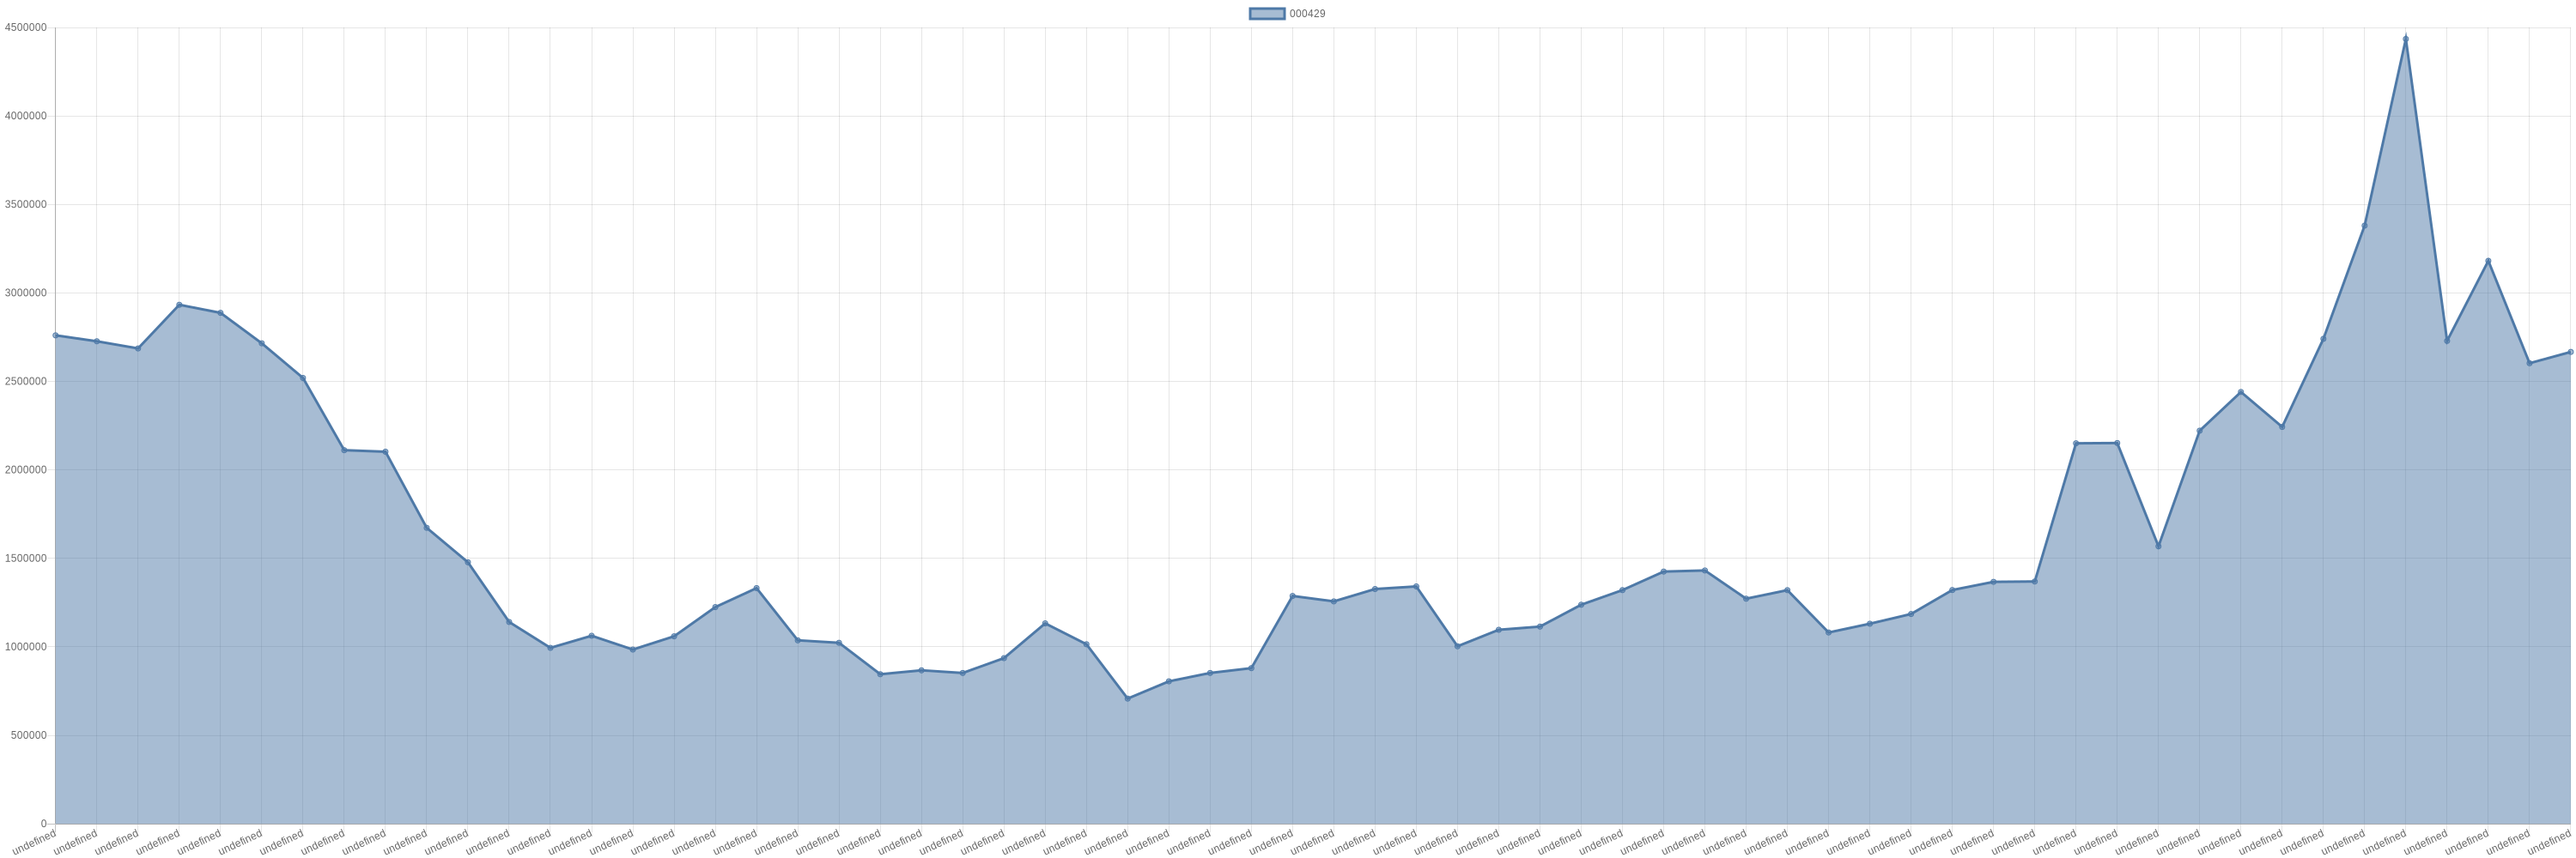
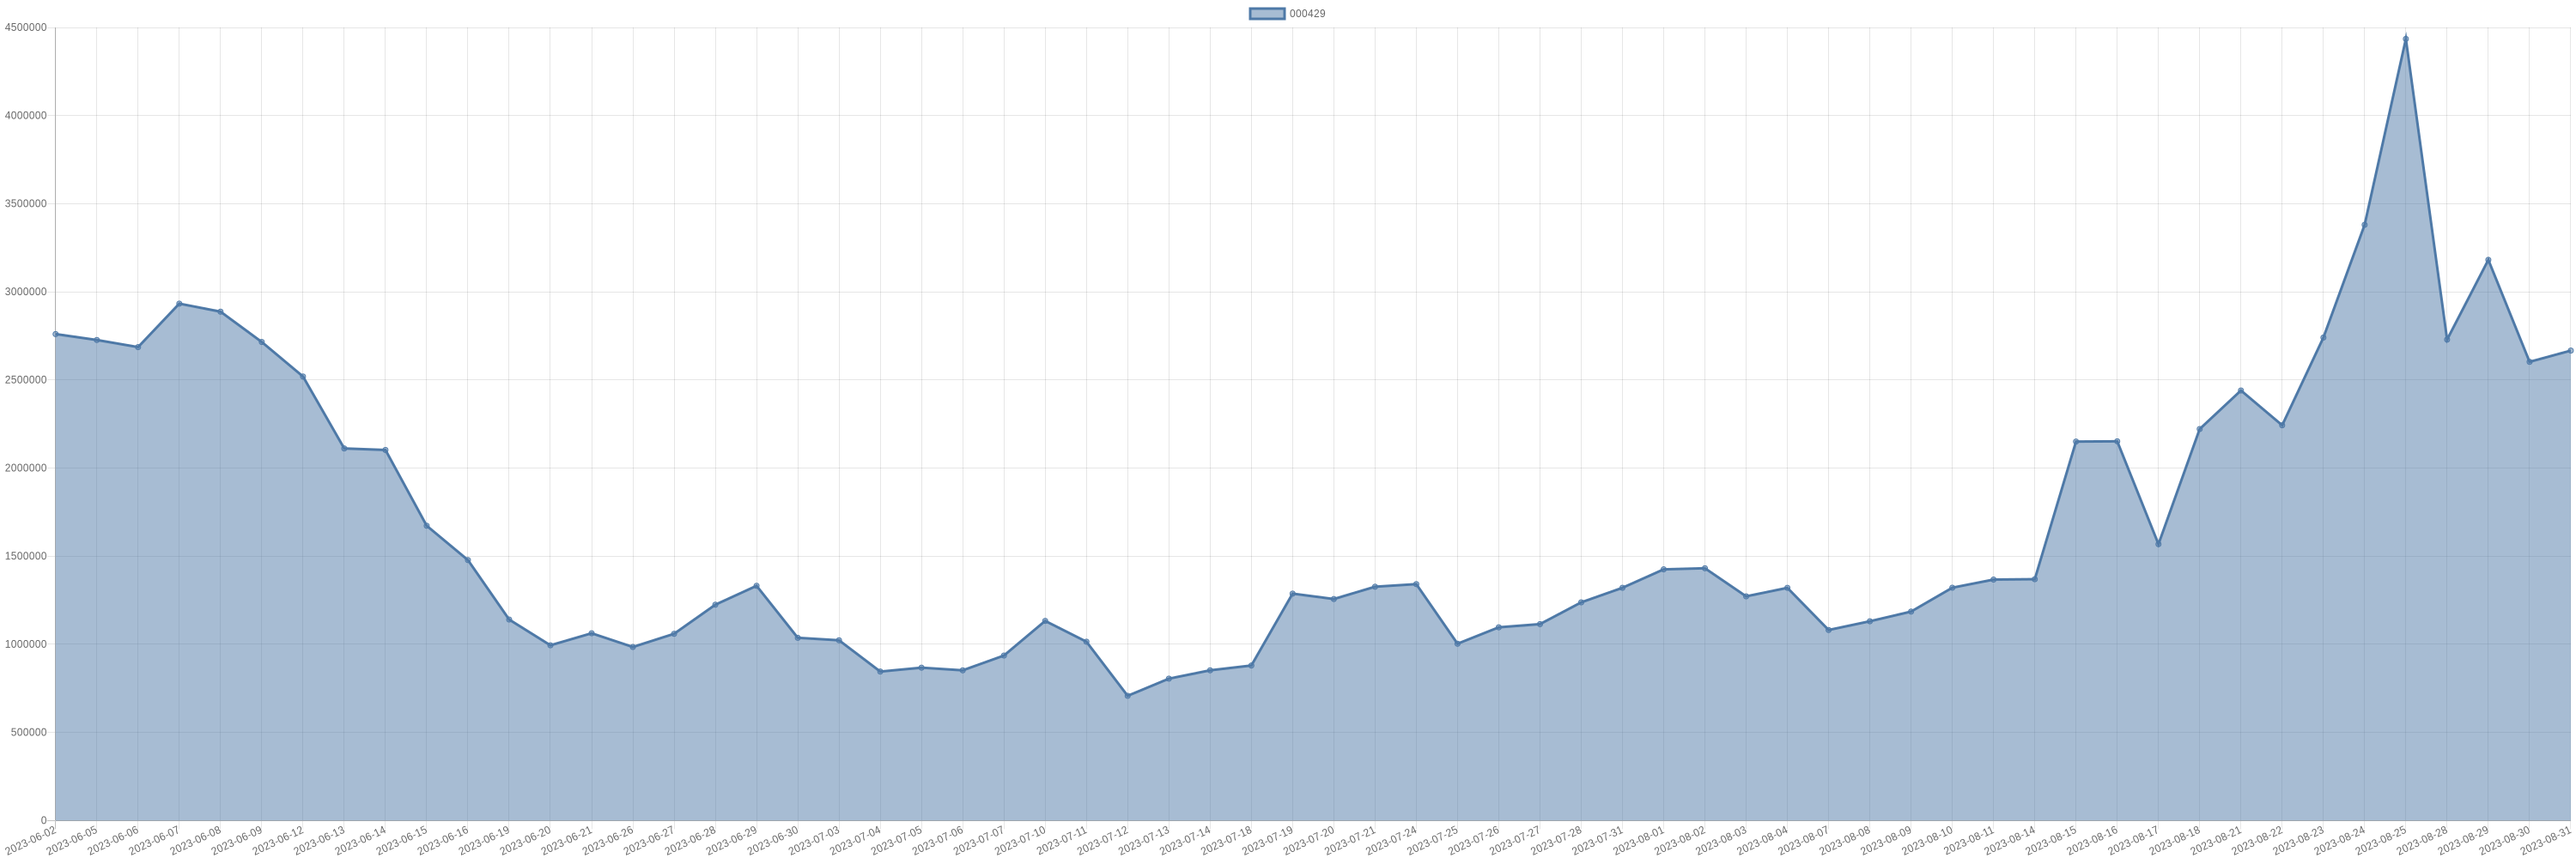
chore: sync morgan stanley security hold list

diff --git a/scripts/morganStanleyItems.js b/scripts/morganStanleyItems.js
@@ -86,7 +86,8 @@ const start = async (
     .map(i => {
       return {
         ...i,
-        date: new Date(i.holdDate)
+        date: new Date(i.holdDate),
+        dateStr: format(new Date(i.holdDate), 'yyyy-MM-dd')
       }
     })
     .sort((a, b) => a.date - b.date)
